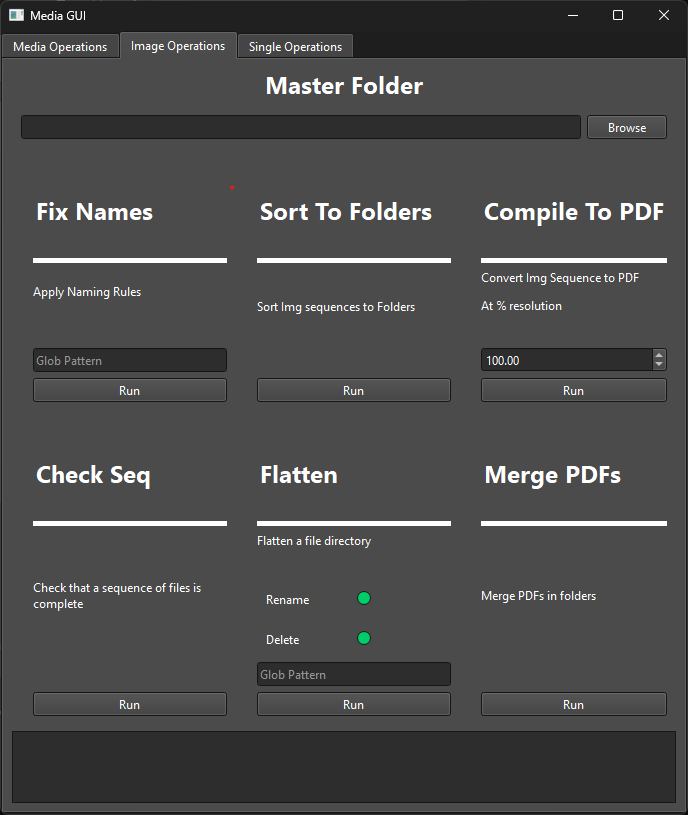
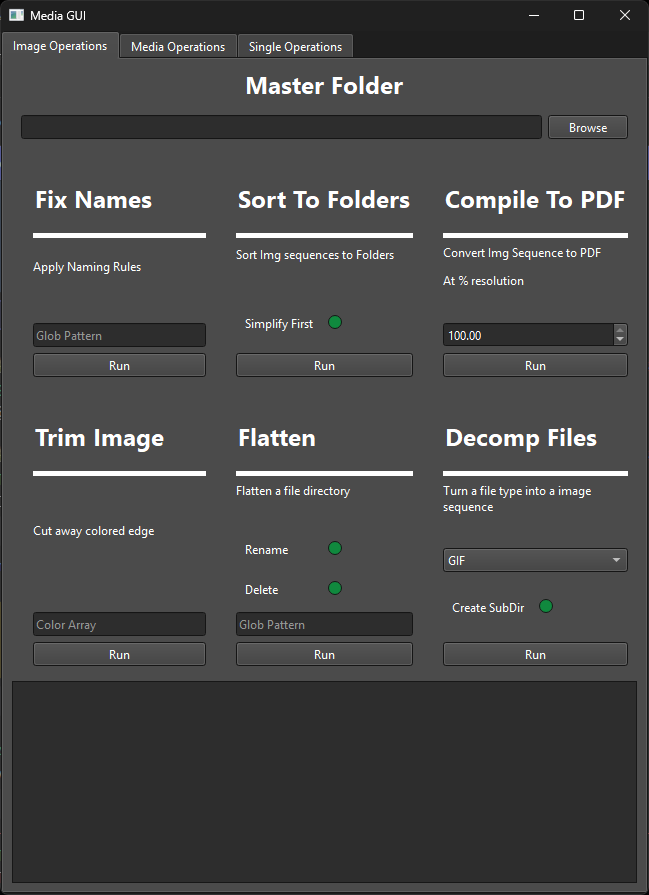
update readme

diff --git a/README.md b/README.md
@@ -1,6 +1,6 @@
 # File Operations Tool
 
-Tool written using PyQt6 for simplifying repeated file operations when I was formatting files for my media server.
+Tool written using PyQt6 for simplifying repeated file operations when I was formatting files. Made hyper-specialized for my needs, but if someone else gets use out of it, then groovy.
 
 ## Features
 
@@ -17,31 +17,28 @@ Features for fixing TV Show or Movie files
 
 ### Image Folder Manipulations
 
-![Media Tab](Attachments/ImageTab.png)
+![Image Tab](Attachments/ImageTab.png)
 
 Features designed for sequences of mixed photos or files
 
 - Fix non-standard naming conventions (rules fixed to my personal preference)
 - Sort Files to Folders based on file name (File 1.txt,File 2.txt... -> /File)
-- Compile subfolders of images into PDF format (designed for comics or image sequences)
-- Check file sequences, i.e. File_1.txt -> File_100.txt and checks if all sequential files are present
-- Flatten a series of subdirectories into a master directory
-- Merge PDFs in folders into master pdfs for each folder
+- Compile subfolders of images or pdfs into master PDFs (designed for comics or image sequences)
+- Trim borders from images
+- Decompile PDF/GIF/Video files into image sequences
 
 ### Single Image Operations
 
-![Media Tab](Attachments/SingleTab.png)
+![Image Tab](Attachments/SingleTab.png)
 
-Features to transform a single image or file
+Features to transform or create a single image or file
 
-- Split an image into grid components
 - Translate an image to English
-- Trim the borders of an image away
-- Decomplile a PDF to image sequence
- 
+- Check file sequences, i.e. File_1.txt -> File_100.txt and checks if all sequential files are present
+
 ## Run
 
-Written using [Uv Package Manger](https://github.com/astral-sh/uv)
+Written using [uv Package Manger](https://github.com/astral-sh/uv)
 
 ```powershell
 uv run .\run.py
